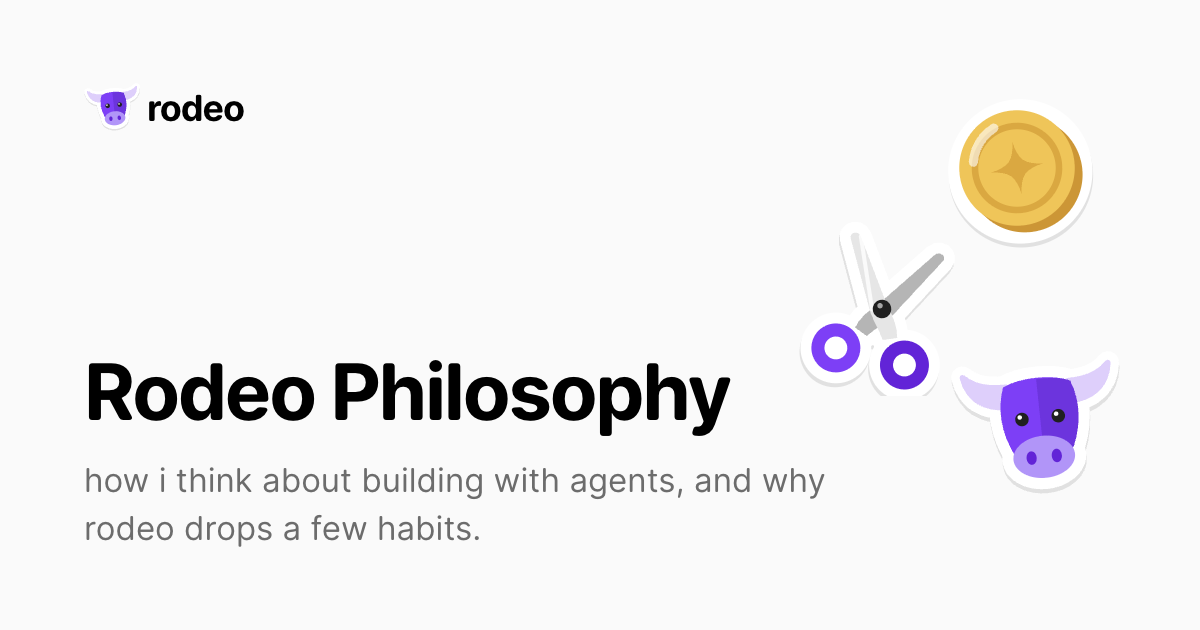
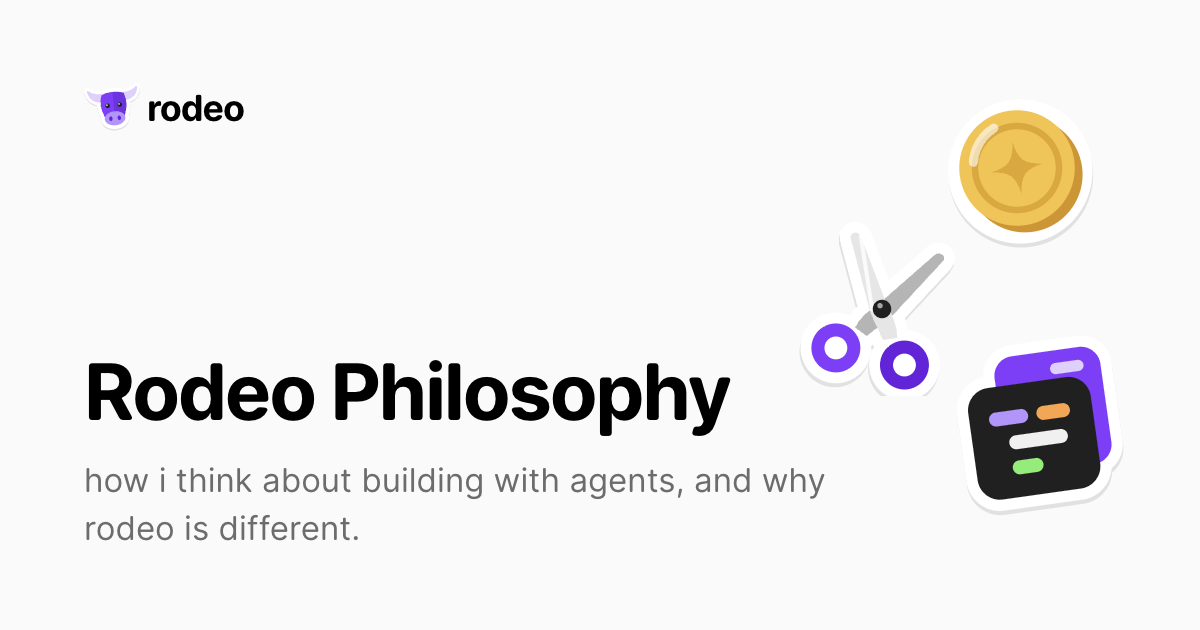
feat(seo): retitle the philosophy social card and swap its second bull (#66)
The card's line now reads "how i think about building with agents, and
why rodeo is different." The codebase sticker replaces the second bull,
which repeated the logo in the corner. The image alt text matches.

Claude-Session: https://claude.ai/code/session_01TwbSzQdgbV83kLA3wU1ejs

Changed region(s): [[0.8017, 0.5429, 0.925, 0.8143], [0.1542, 0.8143, 0.4008, 0.8746]]

diff --git a/src/config/site.ts b/src/config/site.ts
@@ -37,7 +37,7 @@ export const philosophyMeta = {
     "How Rodeo thinks about building with agents, and why it drops code comments, unit tests, and long docs.",
   image: {
     path: "/og-rationale.png",
-    alt: "Rodeo Philosophy, with coin, scissors, and bull stickers.",
+    alt: "Rodeo Philosophy: how i think about building with agents, and why rodeo is different. With coin, scissors, and codebase stickers.",
   },
   published: "2026-10-17",
 } satisfies PageMeta & { published: string };
